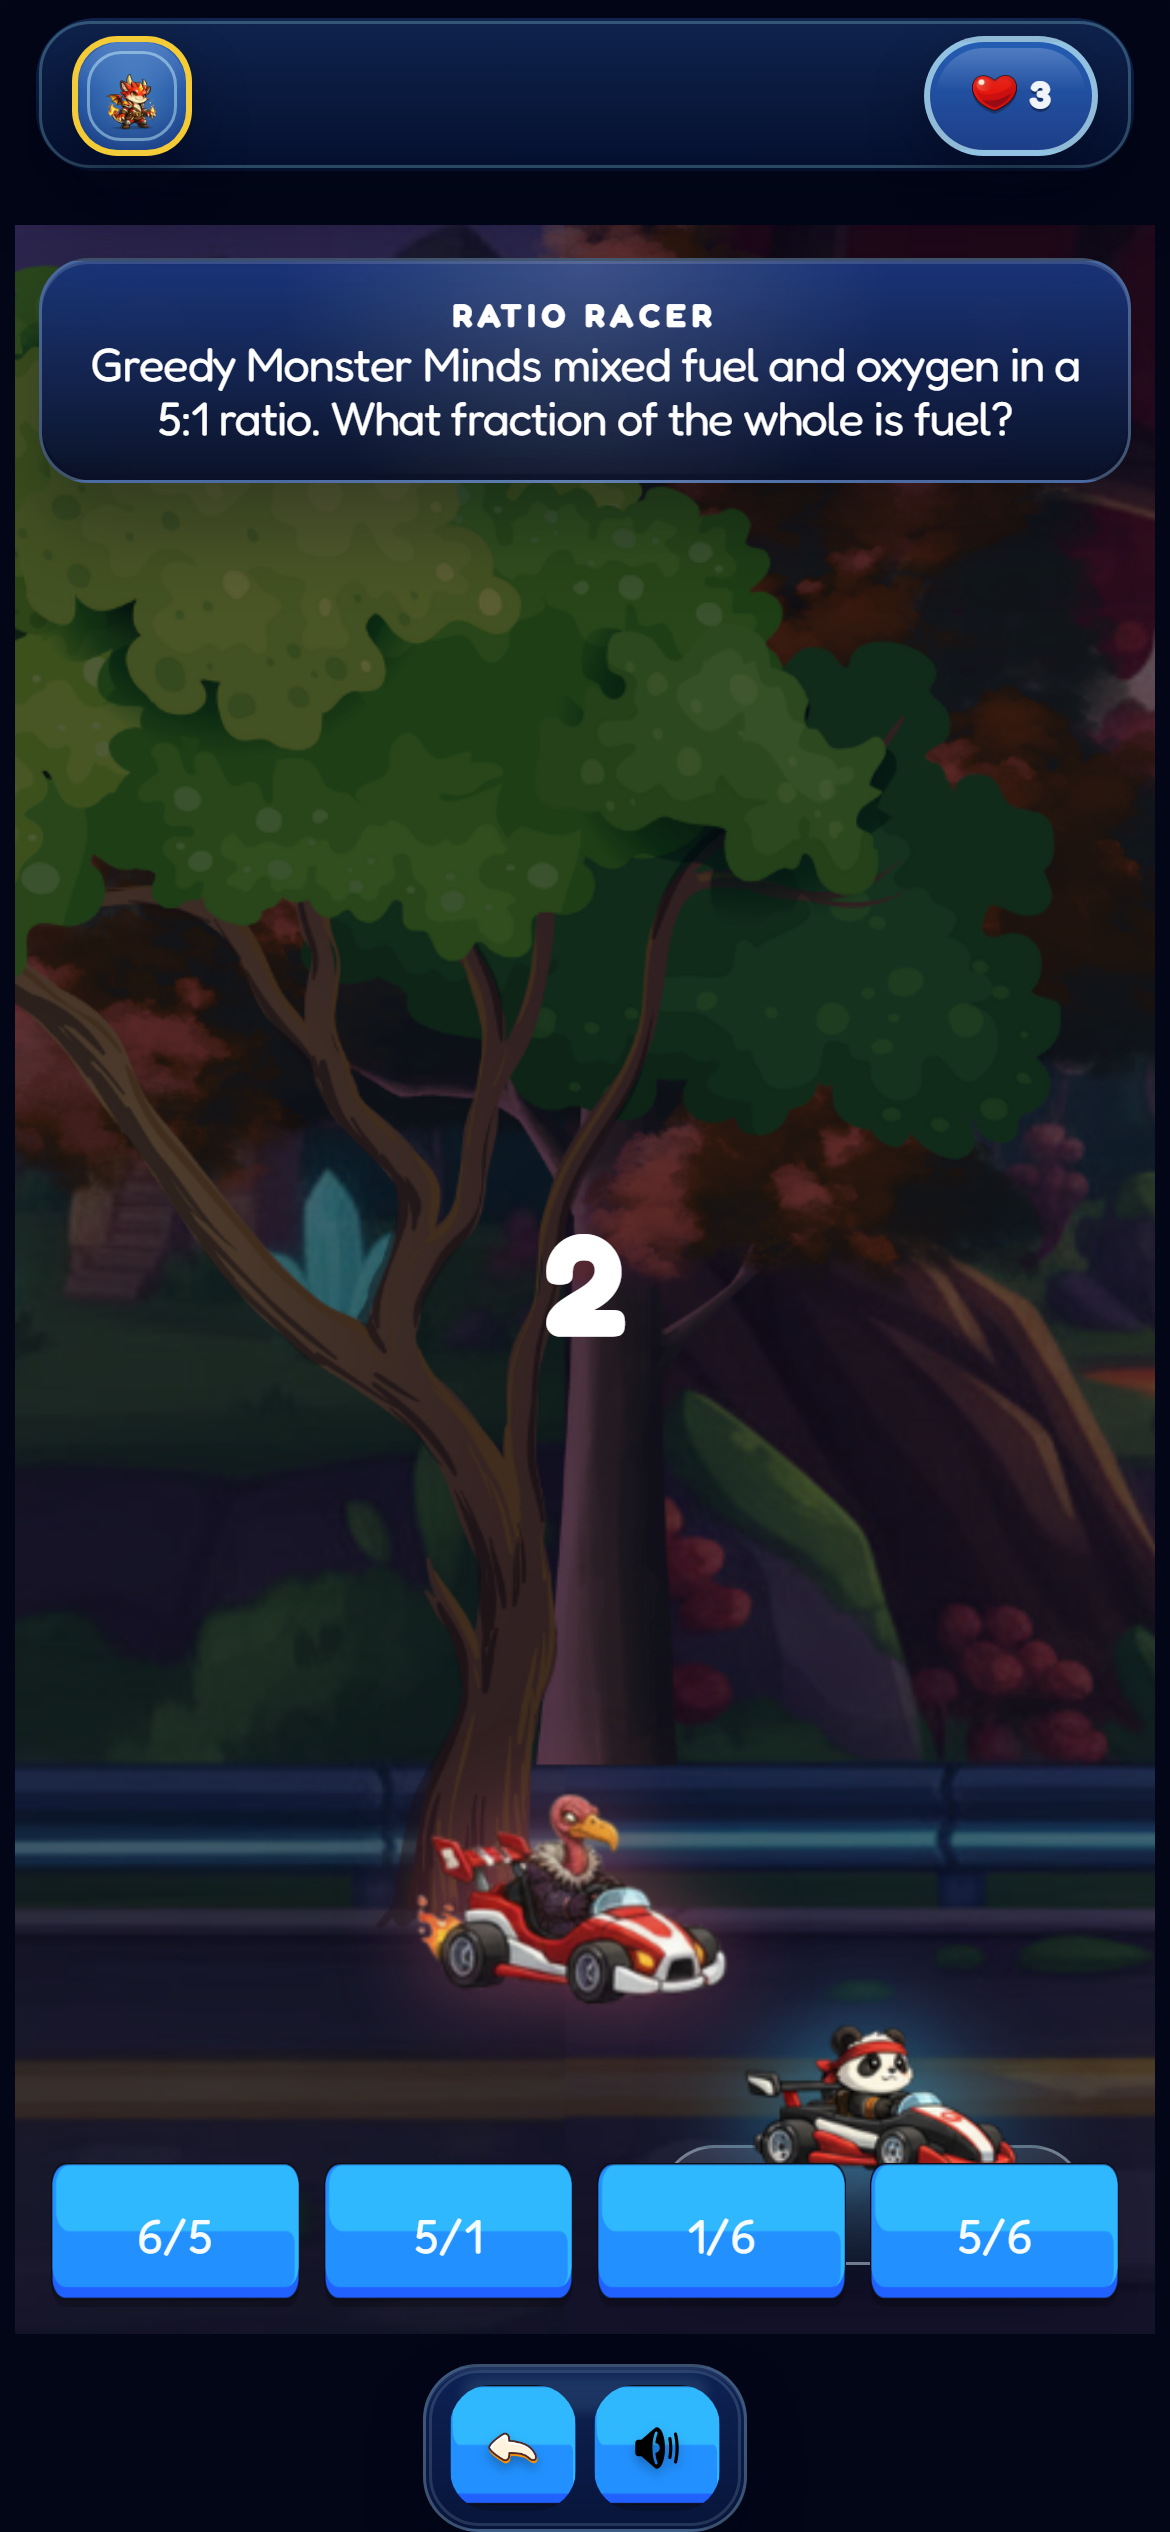
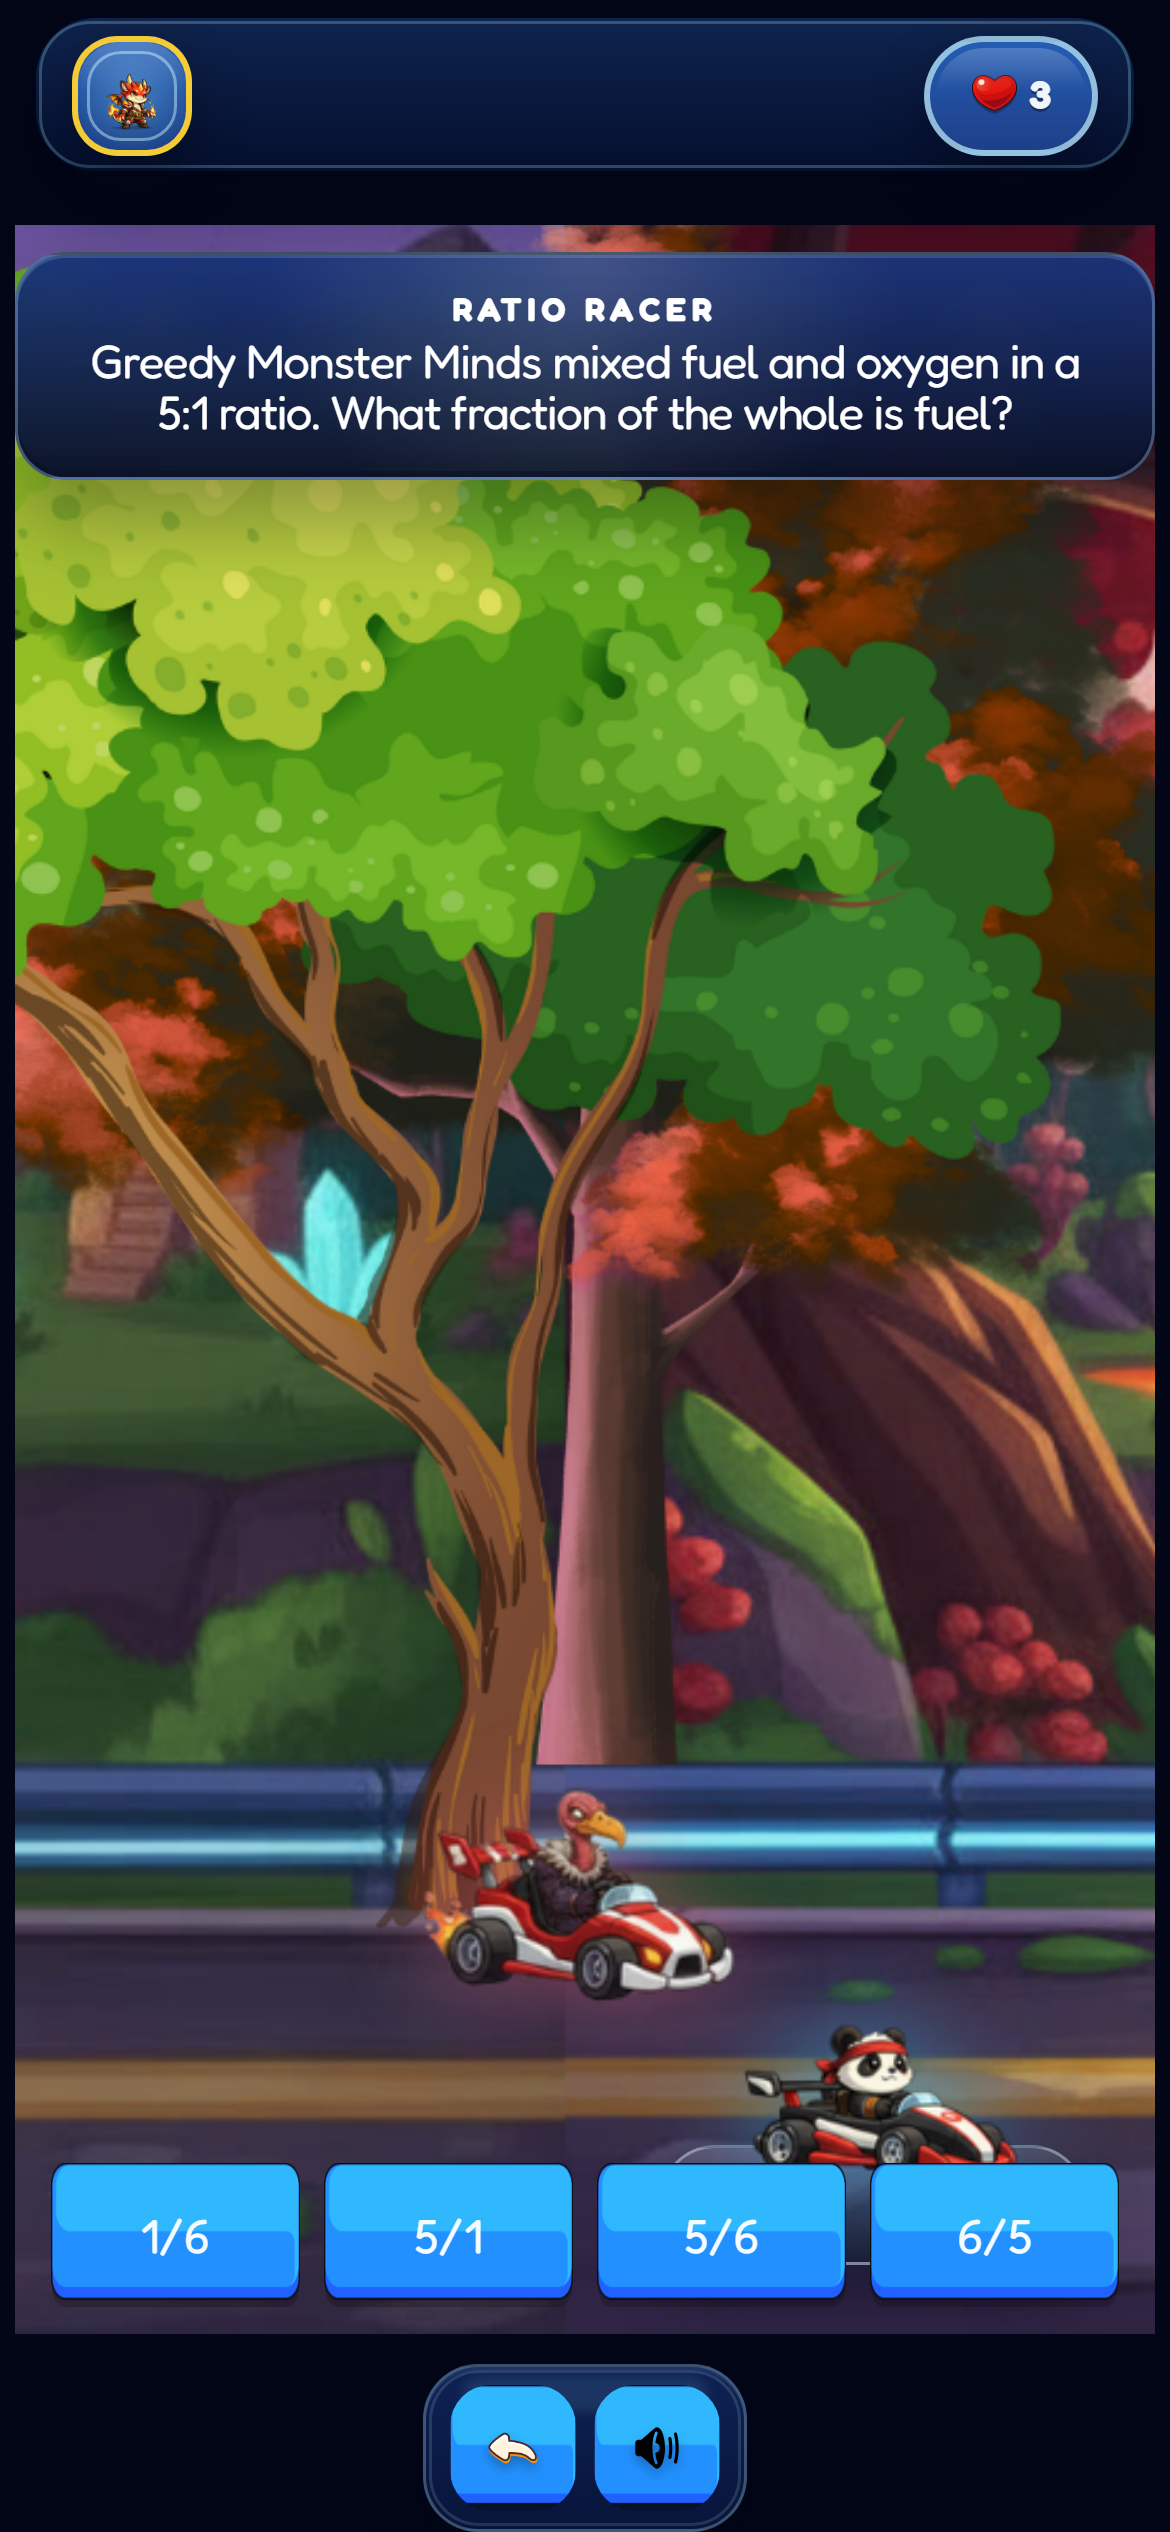
up

diff --git a/src/games/RatioFractionsGame.tsx b/src/games/RatioFractionsGame.tsx
@@ -633,12 +633,12 @@ const RatioFractionsGame: React.FC<RatioFractionsGameProps> = ({
 
         <GameScreenLayout
           className="relative z-10 px-3 pb-[calc(env(safe-area-inset-bottom)+0.7rem)] pt-0 text-white"
-          topClassName="!min-h-0 absolute inset-x-0 top-[calc(env(safe-area-inset-top)+0.35rem)] z-20 flex flex-col items-center gap-0 px-2 pt-0 sm:px-3 md:px-4"
+          topClassName="!min-h-0"
           top={(
-            <div className="mx-auto flex w-full max-w-[780px] flex-col gap-0.5">
+            <div className="pointer-events-none fixed left-0 right-0 z-[60]" style={{ top: '4px' }}>
               <GameQuestionCard
                 title="Ratio Racer"
-                className="w-full max-w-[56rem]"
+                className="mx-auto w-full max-w-[56rem] px-2 sm:px-3 md:px-4"
                 style={{
                   ['--question-card-width' as any]: 'min(100%, 56rem)',
                   ['--question-card-padding' as any]: '16px 18px',
